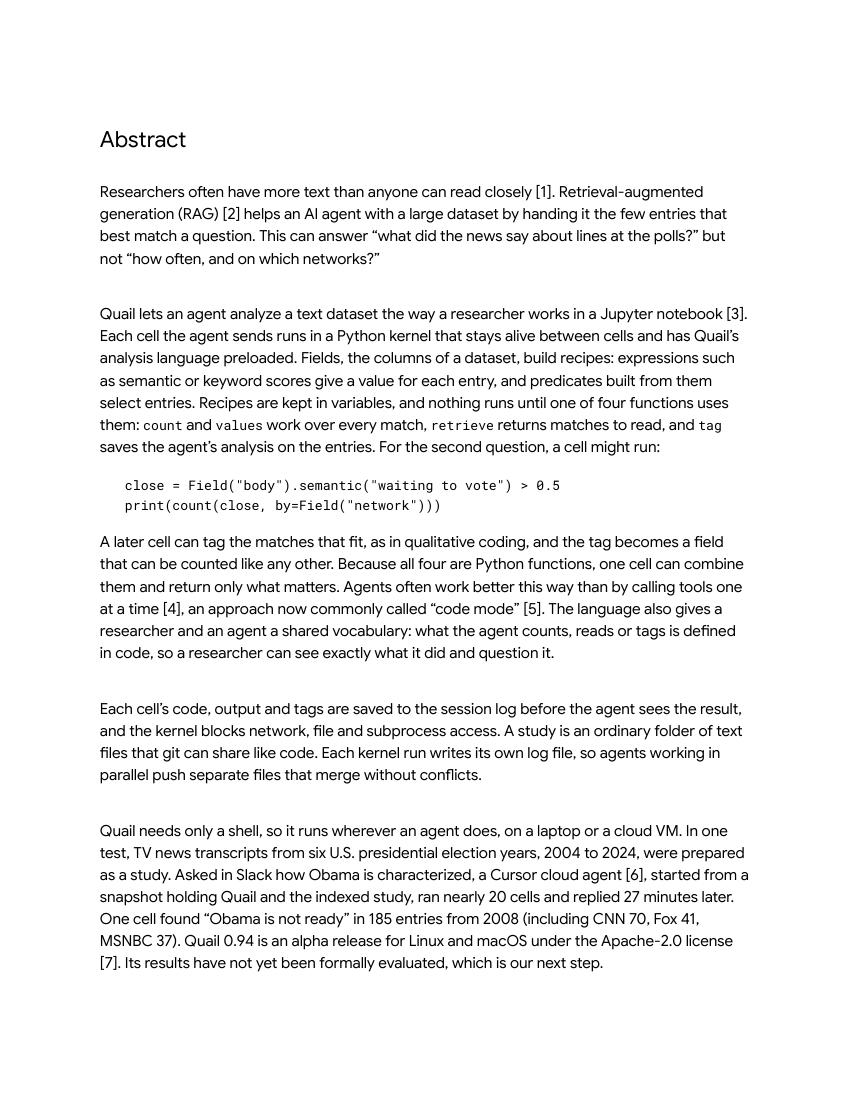
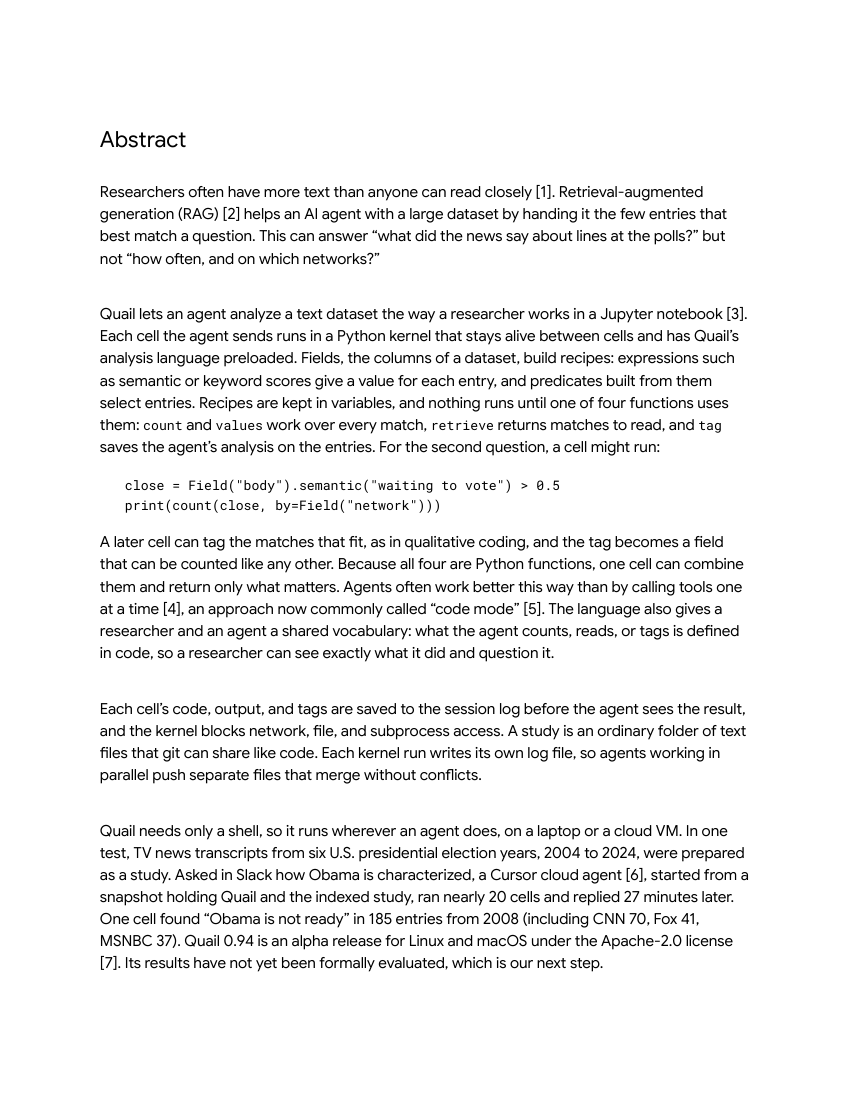
Carry the author's edits from the shared text doc into the poster
New lede, opening paragraph and notebook paragraphs; a rewritten
analysis-language intro, studies paragraph, semantic-search paragraph and
"Where Quail can run" paragraph that names the Carleton dataset; "an early
release"; "Key open questions" with a seventh question. The "Quail builds on
RAG" and session-log paragraphs are gone, as is the "sem was defined in an
earlier cell" caption. Figure labels follow the doc ("totals every match",
"a Python list, for statistics", "one SQLite file with", "processed"), and
lists take a serial comma throughout, in the abstract too.

To keep the right column inside the page, the open questions are set at
34 px instead of 37 px and the section and box spacing is tighter.

Claude-Session: https://claude.ai/code/session_01ChZ8DmmKvsKSV4JFVieZLU

Changed region(s): [[0.3059, 0.6182, 0.8871, 0.68], [0.7341, 0.5564, 0.8871, 0.5873]]

diff --git a/poster/poster.html b/poster/poster.html
@@ -26,18 +26,16 @@
 
 <section id="why">
   <h2>Beyond retrieval</h2>
-  <p class="lede">Quail lets an AI agent make sense of a large text dataset in a notebook, with tools it can combine in code.</p>
-  <p>Researchers often have more text than anyone can read closely.<sup>1</sup> Retrieval-augmented generation (RAG)<sup>2</sup> helps an agent with a large dataset by handing it the few entries that best match a question. This can answer &ldquo;what did the news say about lines at the polls?&rdquo; but not &ldquo;how often, and on which networks?&rdquo;</p>
+  <p class="lede">While text retrieval shows an agent a few examples, Quail gives it a Python kernel and an analysis language, in order to make sense of the whole dataset.</p>
+  <p>Researchers often have more text than anyone can read closely.<sup>1</sup> LLMs can help, and one common way is through retrieval-augmented generation (RAG),<sup>2</sup> which gives a language model the few entries that best match a query. Standard RAG can answer &ldquo;what did the news say about lines at the polls?&rdquo; but not &ldquo;how often, and on which networks?&rdquo;</p>
   <figure><img src="figures/corpus.svg" alt="The same 40-entry dataset four times: retrieval picks five entries; counting finds all twelve matches; values returns one value from each match as a Python list; tagging marks ten as fitting and two as not"></figure>
-  <p>Quail builds on RAG. It keeps retrieval and adds three more functions: <code>count</code> and <code>values</code> work over every matching entry, not just the closest few, so the agent can check how common something is instead of guessing from examples, and <code>tag</code> saves its analysis on the entries themselves.</p>
 </section>
 
 <section id="notebook">
   <h2>A notebook for an agent</h2>
-  <p>A Jupyter notebook lets a researcher try something, read the result and decide what to try next. Quail gives an agent the same loop. Each cell the agent sends runs in a kernel that stays alive between cells, and the agent gets back what a notebook would show: printed output, then the last line&rsquo;s value or a traceback.</p>
-  <p>Many systems give an agent a separate tool for each operation, such as search or count. Quail gives it a Python kernel instead, with its analysis language preloaded. Searching, counting and tagging are Python functions, so one cell can combine them and return only what matters. Agents often work better this way than by calling tools one at a time,<sup>3</sup> an approach now commonly called &ldquo;code mode.&rdquo;<sup>4</sup></p>
+  <p>Notebooks like Jupyter let researchers iteratively explore. Quail gives an agent the same loop, where each command from the agent runs in a kernel that stays alive between executions. After each cell, the agent receives the same as a notebook would show: printed output and the last line&rsquo;s value.</p>
+  <p>Many systems give an agent a separate tool for each operation. Quail instead relies on an analysis language inside its Python kernel, where functions to search, count, and tag are highly composable. Agents often work better this way than by calling tools one at a time,<sup>3</sup> an approach now commonly called &ldquo;code mode.&rdquo;<sup>4</sup></p>
   <figure><img src="figures/loop.svg" alt="The agent sends cell 13 to Quail and reads back its output. Inside Quail, a session host passes the cell to a sandboxed Python kernel, which reads the SQLite dataset index and returns its result; the host writes the cell and its result to the session log, then updates the index and replies. Numbered arrows mark the seven steps; missing embeddings come from an embedding model"></figure>
-  <p>The session host saves each cell to the session log (5) before replying (7), so every result is already on disk. The index is only a cache of the study&rsquo;s files.</p>
 </section>
 
 </div>
@@ -46,15 +44,15 @@
 
 <section id="language">
   <h2>The analysis language</h2>
-  <p>Cells combine ordinary Python with Quail&rsquo;s analysis language. Its pieces build on one another, from the columns of a dataset to four core functions. The language also gives a researcher and an agent a shared vocabulary: what the agent counts, reads or tags is defined in code, such as <code>close = sem &gt; 0.5</code>, so a researcher can see exactly what it did and question&nbsp;it.</p>
+  <p>Inside the Python kernel, Quail&rsquo;s analysis language acts as the bridge between the kernel and the dataset. The components of the language build on one another, from the columns of a dataset to the four core functions. The language also gives a researcher and an agent a concise, shared vocabulary; this allows a researcher to efficiently interrogate an agent&rsquo;s actions.</p>
   <figure><img src="figures/language.svg" alt="The analysis language in three levels. Fields, the columns of the dataset, such as body, year and network, build recipes: expressions, a value for each entry, such as a semantic or keyword score, and predicates, true or false for each entry, such as close = sem &gt; 0.5. Recipes are kept in variables and nothing runs until a function uses them. They plug into four functions: count, retrieve, values and tag. Tag writes a new field, such as topic, that can be used like any other"></figure>
 </section>
 
 <section id="study">
   <h2>Studies live in git</h2>
-  <p>A study is an ordinary folder of text files, so git can share it the way it shares code. Each kernel run writes its own log file, so agents working in parallel push separate files that merge without conflicts. To branch an analysis without disturbing the original, an agent can copy a closed session&rsquo;s tags and history into a new session.</p>
+  <p>Sessions in Quail are organized into studies, and being a folder of text files, git can share a study the way it shares any piece of code. The file structure is designed so that agents working in parallel can push logs without conflict and pick up where another agent left off.</p>
   <figure><img src="figures/study.svg" alt="A study folder holding quail.toml, the notes.csv dataset, a session with one log per kernel run, exports/, warm/ and a local .quail/ index, next to two agents sharing it through git: one works in session first-pass, the other in second-pass, forked from it. Below, embeddings computed in four shards are saved to warm/, so every clone&rsquo;s first semantic search is fast"></figure>
-  <p>Semantic search needs embeddings of every distinct value in a field, which can take hours to compute. <code>quail warm</code> can compute them ahead of time, in shards on several machines, and save them in <code>warm/</code>, so every clone starts with them.</p>
+  <p>Semantic search needs the entire search space to be embedded, which can take hours to compute. <code>quail warm</code> can do this work ahead of time, in shards on several machines, and saving them in <code>warm/</code>.</p>
 </section>
 
 </div>
@@ -63,7 +61,7 @@
 
 <section id="where">
   <h2>Where Quail can run</h2>
-  <p>Quail needs only a shell, so it runs wherever an agent does, on a laptop or a cloud VM. In one tested setup, TV news transcripts from six U.S. presidential election years, 2004 to 2024, were prepared as a study, with one dataset per year. Mentioning @Cursor in a Slack thread started a Cursor cloud agent on its own VM. The VM booted from a snapshot that already held Quail, an embedding model and the study, indexed and embedded, so the agent could start with minimal setup.</p>
+  <p>Quail needs only a shell, so it can run wherever an agent does, on a laptop or a cloud VM. In one tested setup, using a Carleton College research dataset, TV news transcripts from six U.S. presidential election years were prepared as a study. Using cloud agents through Cursor, we processed the dataset and set up a Cursor-Slack integration. Once connected to Slack, mentioning @Cursor in a Slack thread started a new Cursor cloud agent, whose VM booted from a snapshot that already held Quail, an embedding model, and the processed dataset. This allowed the agent&rsquo;s responses to be easily visible and its work to begin with minimal setup.</p>
   <figure><img src="figures/deploy.svg" alt="A question in Slack starts a cloud VM that boots from a snapshot holding Quail, an embedding model and the dataset, indexed and embedded; on the VM the agent sends cells to Quail, reads their output and posts its reply in the same thread"></figure>
   <div class="thread">
     <div><span class="who">Dashiell Coyier</span></div>
@@ -90,9 +88,9 @@ for name, pat in labels:
 
 <section id="status">
   <h2>Status and next steps</h2>
-  <p>Quail 0.94 is an alpha release for Linux and macOS, open source under the Apache-2.0 license. It works with any agent that can run shell commands.</p>
+  <p>Quail 0.94 is an early release for Linux and macOS, open source under the <span class="nowrap">Apache-2.0</span> license.</p>
   <div class="questions">
-    <h3>Open questions</h3>
+    <h3>Key open questions</h3>
     <ol>
       <li>How does Quail add value to coding agents such as Codex or Claude&nbsp;Code?</li>
       <li>Should Quail run on a central server or locally for each&nbsp;agent?</li>
@@ -100,6 +98,7 @@ for name, pat in labels:
       <li>Could Quail search and tag passages within a text without chunking&nbsp;it&nbsp;first?</li>
       <li>How could &ldquo;System&nbsp;1&rdquo; decision models such as Jev be integrated into&nbsp;Quail?</li>
       <li>How can an agent communicate its method efficiently, so that researchers can trust its analysis?</li>
+      <li>Could a small analysis language in a persistent kernel help agents in other&nbsp;domains?</li>
     </ol>
   </div>
   <div class="term"><span class="cmt">To try it, with git and uv installed:</span>

diff --git a/poster/abstract.html b/poster/abstract.html
@@ -37,8 +37,8 @@
 <p>Quail lets an agent analyze a text dataset the way a researcher works in a Jupyter notebook [3]. Each cell the agent sends runs in a Python kernel that stays alive between cells and has Quail&rsquo;s analysis language preloaded. Fields, the columns of a dataset, build recipes: expressions such as semantic or keyword scores give a value for each entry, and predicates built from them select entries. Recipes are kept in variables, and nothing runs until one of four functions uses them: <code>count</code> and <code>values</code> work over every match, <code>retrieve</code> returns matches to read, and <code>tag</code> saves the agent&rsquo;s analysis on the entries. For the second question, a cell might run:</p>
 <pre>close = Field("body").semantic("waiting to vote") &gt; 0.5
 print(count(close, by=Field("network")))</pre>
-<p>A later cell can tag the matches that fit, as in qualitative coding, and the tag becomes a field that can be counted like any other. Because all four are Python functions, one cell can combine them and return only what matters. Agents often work better this way than by calling tools one at a time [4], an approach now commonly called &ldquo;code mode&rdquo; [5]. The language also gives a researcher and an agent a shared vocabulary: what the agent counts, reads or tags is defined in code, so a researcher can see exactly what it did and question it.</p>
-<p>Each cell&rsquo;s code, output and tags are saved to the session log before the agent sees the result, and the kernel blocks network, file and subprocess access. A study is an ordinary folder of text files that git can share like code. Each kernel run writes its own log file, so agents working in parallel push separate files that merge without conflicts.</p>
+<p>A later cell can tag the matches that fit, as in qualitative coding, and the tag becomes a field that can be counted like any other. Because all four are Python functions, one cell can combine them and return only what matters. Agents often work better this way than by calling tools one at a time [4], an approach now commonly called &ldquo;code mode&rdquo; [5]. The language also gives a researcher and an agent a shared vocabulary: what the agent counts, reads, or tags is defined in code, so a researcher can see exactly what it did and question it.</p>
+<p>Each cell&rsquo;s code, output, and tags are saved to the session log before the agent sees the result, and the kernel blocks network, file, and subprocess access. A study is an ordinary folder of text files that git can share like code. Each kernel run writes its own log file, so agents working in parallel push separate files that merge without conflicts.</p>
 <p>Quail needs only a shell, so it runs wherever an agent does, on a laptop or a cloud VM. In one test, TV news transcripts from six U.S. presidential election years, 2004 to 2024, were prepared as a study. Asked in Slack how Obama is characterized, a Cursor cloud agent [6], started from a snapshot holding Quail and the indexed study, ran nearly 20 cells and replied 27 minutes later. One cell found &ldquo;Obama is not ready&rdquo; in 185 entries from 2008 (including CNN 70, Fox 41, MSNBC 37). Quail 0.94 is an alpha release for Linux and macOS under the Apache-2.0 license [7]. Its results have not yet been formally evaluated, which is our next step.</p>
 </div>
 
@@ -59,7 +59,7 @@ print(count(close, by=Field("network")))</pre>
 <p style="padding-top:11pt">For Advocacy, Quail is an example of what a campus data and software support group can build in response to a local need. It came out of the DataSquad, a student-staffed group at Carleton College, after we saw campus offices collect open-ended survey answers they did not have time to analyze. It also addresses this year&rsquo;s theme, Advancing Science in the Age of AI: in qualitative research, researchers need to see exactly what an agent did, and question it, before they can trust its analysis.</p>
 
 <h2>AI Acknowledgement</h2>
-<p>OpenAI ChatGPT (GPT-5.6 Thinking) was used during the revision of the submitted abstract. For this camera-ready version, Anthropic Claude (Claude Opus 5.5, used through a Cursor cloud agent) drafted the revised Abstract, References and Connection sections from the submitted abstract and the Quail documentation. Anthropic Claude, used through Claude Code, then revised these sections to match the poster. The author reviewed and verified all content and takes responsibility for it.</p>
+<p>OpenAI ChatGPT (GPT-5.6 Thinking) was used during the revision of the submitted abstract. For this camera-ready version, Anthropic Claude (Claude Opus 5.5, used through a Cursor cloud agent) drafted the revised Abstract, References, and Connection sections from the submitted abstract and the Quail documentation. Anthropic Claude, used through Claude Code, then revised these sections to match the poster. The author reviewed and verified all content and takes responsibility for it.</p>
 </div>
 
 </body>

diff --git a/poster/poster.css b/poster/poster.css
@@ -92,7 +92,7 @@ main {
   grid-template-columns: 1200px 1fr 1200px;
   column-gap: var(--gap);
 }
-.col { display: flex; flex-direction: column; gap: 84px; min-width: 0; min-height: 0; }
+.col { display: flex; flex-direction: column; gap: 64px; min-width: 0; min-height: 0; }
 
 section { min-width: 0; }
 
@@ -162,6 +162,9 @@ table.lang td:first-child { width: 600px; padding-right: 24px; font-family: var(
 .restart::before, .restart::after { content: ""; flex: 1; border-top: 3px dashed #BDB7B1; }
 .restart code { font-size: 25px; letter-spacing: 0; font-weight: 500; color: var(--ink-2); }
 
+#where figure { margin: 24px 0; }
+.nowrap { white-space: nowrap; }
+
 /* Slack excerpt */
 .thread {
   border: 3px solid var(--rule);
@@ -183,14 +186,14 @@ table.lang td:first-child { width: 600px; padding-right: 24px; font-family: var(
 
 /* open questions, set apart to invite conversation */
 .questions {
-  margin: 36px 0 30px;
+  margin: 28px 0 24px;
   background: var(--fill);
   border-radius: 24px;
-  padding: 32px 44px 34px;
+  padding: 26px 44px 28px;
 }
-.questions h3 { margin: 0 0 16px; font-family: var(--display); font-size: 48px; font-weight: 700; letter-spacing: 0; color: var(--blue); }
+.questions h3 { margin: 0 0 10px; font-family: var(--display); font-size: 48px; font-weight: 700; letter-spacing: 0; color: var(--blue); }
 .questions ol { margin: 0; padding-left: 1.3em; }
-.questions li { margin: 0 0 16px; font-size: 37px; line-height: 1.32; }
+.questions li { margin: 0 0 8px; font-size: 34px; line-height: 1.32; }
 .questions li:last-child { margin-bottom: 0; }
 .questions li::marker { font-weight: 700; color: var(--blue); }
 
